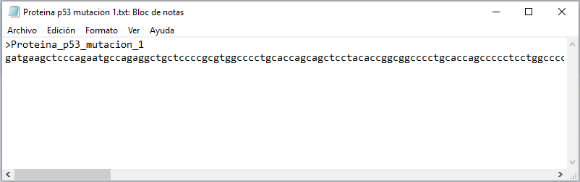
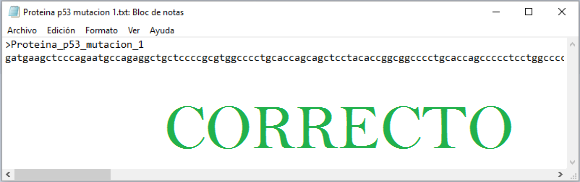
fORMATO CORRECTO DE LA PROTEINA

diff --git a/src/clustalUDC/tutorial/TutorialPrincipal.java b/src/clustalUDC/tutorial/TutorialPrincipal.java
@@ -128,6 +128,15 @@ public class TutorialPrincipal extends javax.swing.JFrame {
         scrollDescription11 = new javax.swing.JScrollPane();
         descriptionTutorial11 = new javax.swing.JTextArea();
         imagenTutorial11 = new javax.swing.JLabel();
+        panelTutorial12 = new javax.swing.JPanel();
+        siguiente11 = new javax.swing.JButton();
+        atras11 = new javax.swing.JButton();
+        skipTutorial13 = new javax.swing.JButton();
+        tituloTutorial12 = new javax.swing.JLabel();
+        scrollDescription12 = new javax.swing.JScrollPane();
+        descriptionTutorial12 = new javax.swing.JTextArea();
+        imagenTutorial12 = new javax.swing.JLabel();
+        imagenTutorialAux = new javax.swing.JLabel();
 
         setDefaultCloseOperation(javax.swing.WindowConstants.EXIT_ON_CLOSE);
         setResizable(false);
@@ -880,6 +889,69 @@ public class TutorialPrincipal extends javax.swing.JFrame {
                 .addContainerGap())
         );
 
+        siguiente11.setText("Siguiente");
+
+        atras11.setText("Atras");
+
+        skipTutorial13.setText("Saltar Tutorial");
+
+        tituloTutorial12.setFont(new java.awt.Font("Tahoma", 1, 24)); // NOI18N
+        tituloTutorial12.setText("Formato Correcto de la proteina");
+
+        descriptionTutorial12.setBackground(new java.awt.Color(240, 240, 240));
+        descriptionTutorial12.setColumns(20);
+        descriptionTutorial12.setRows(5);
+        descriptionTutorial12.setText("Para visualizar correctamente el analisis y poder usar el software\ncorrectamente debe ingresar la poteina en secuencia de bases\nnitrogenadas y NO en secuencia de aminoacidos.\nComo se muestra a continuación.");
+        descriptionTutorial12.setBorder(new javax.swing.border.LineBorder(new java.awt.Color(240, 240, 240), 0, true));
+        descriptionTutorial12.setPreferredSize(new java.awt.Dimension(190, 94));
+        scrollDescription12.setViewportView(descriptionTutorial12);
+
+        imagenTutorial12.setIcon(new javax.swing.ImageIcon(getClass().getResource("/clustalUDC/src/Ejemplo-Proteina.png"))); // NOI18N
+
+        imagenTutorialAux.setIcon(new javax.swing.ImageIcon(getClass().getResource("/clustalUDC/src/Ejemplo-Proteina2.png"))); // NOI18N
+
+        javax.swing.GroupLayout panelTutorial12Layout = new javax.swing.GroupLayout(panelTutorial12);
+        panelTutorial12.setLayout(panelTutorial12Layout);
+        panelTutorial12Layout.setHorizontalGroup(
+            panelTutorial12Layout.createParallelGroup(javax.swing.GroupLayout.Alignment.LEADING)
+            .addGroup(panelTutorial12Layout.createSequentialGroup()
+                .addContainerGap()
+                .addGroup(panelTutorial12Layout.createParallelGroup(javax.swing.GroupLayout.Alignment.LEADING)
+                    .addGroup(javax.swing.GroupLayout.Alignment.TRAILING, panelTutorial12Layout.createSequentialGroup()
+                        .addComponent(skipTutorial13)
+                        .addPreferredGap(javax.swing.LayoutStyle.ComponentPlacement.RELATED, javax.swing.GroupLayout.DEFAULT_SIZE, Short.MAX_VALUE)
+                        .addComponent(atras11)
+                        .addPreferredGap(javax.swing.LayoutStyle.ComponentPlacement.UNRELATED)
+                        .addComponent(siguiente11))
+                    .addGroup(panelTutorial12Layout.createSequentialGroup()
+                        .addGroup(panelTutorial12Layout.createParallelGroup(javax.swing.GroupLayout.Alignment.LEADING)
+                            .addGroup(panelTutorial12Layout.createParallelGroup(javax.swing.GroupLayout.Alignment.TRAILING, false)
+                                .addComponent(scrollDescription12, javax.swing.GroupLayout.Alignment.LEADING)
+                                .addComponent(tituloTutorial12, javax.swing.GroupLayout.Alignment.LEADING)
+                                .addComponent(imagenTutorial12, javax.swing.GroupLayout.Alignment.LEADING, javax.swing.GroupLayout.DEFAULT_SIZE, javax.swing.GroupLayout.DEFAULT_SIZE, Short.MAX_VALUE))
+                            .addComponent(imagenTutorialAux))
+                        .addGap(0, 0, Short.MAX_VALUE)))
+                .addContainerGap())
+        );
+        panelTutorial12Layout.setVerticalGroup(
+            panelTutorial12Layout.createParallelGroup(javax.swing.GroupLayout.Alignment.LEADING)
+            .addGroup(javax.swing.GroupLayout.Alignment.TRAILING, panelTutorial12Layout.createSequentialGroup()
+                .addContainerGap()
+                .addComponent(tituloTutorial12)
+                .addPreferredGap(javax.swing.LayoutStyle.ComponentPlacement.UNRELATED)
+                .addComponent(scrollDescription12, javax.swing.GroupLayout.PREFERRED_SIZE, 101, javax.swing.GroupLayout.PREFERRED_SIZE)
+                .addPreferredGap(javax.swing.LayoutStyle.ComponentPlacement.UNRELATED)
+                .addComponent(imagenTutorial12, javax.swing.GroupLayout.PREFERRED_SIZE, 139, javax.swing.GroupLayout.PREFERRED_SIZE)
+                .addPreferredGap(javax.swing.LayoutStyle.ComponentPlacement.RELATED)
+                .addComponent(imagenTutorialAux)
+                .addPreferredGap(javax.swing.LayoutStyle.ComponentPlacement.RELATED, 136, Short.MAX_VALUE)
+                .addGroup(panelTutorial12Layout.createParallelGroup(javax.swing.GroupLayout.Alignment.BASELINE)
+                    .addComponent(siguiente11)
+                    .addComponent(atras11)
+                    .addComponent(skipTutorial13))
+                .addContainerGap())
+        );
+
         javax.swing.GroupLayout layout = new javax.swing.GroupLayout(getContentPane());
         getContentPane().setLayout(layout);
         layout.setHorizontalGroup(
@@ -937,6 +1009,11 @@ public class TutorialPrincipal extends javax.swing.JFrame {
                     .addContainerGap()
                     .addComponent(panelTutorial11, javax.swing.GroupLayout.DEFAULT_SIZE, javax.swing.GroupLayout.DEFAULT_SIZE, Short.MAX_VALUE)
                     .addContainerGap()))
+            .addGroup(layout.createParallelGroup(javax.swing.GroupLayout.Alignment.LEADING)
+                .addGroup(layout.createSequentialGroup()
+                    .addContainerGap()
+                    .addComponent(panelTutorial12, javax.swing.GroupLayout.DEFAULT_SIZE, javax.swing.GroupLayout.DEFAULT_SIZE, Short.MAX_VALUE)
+                    .addContainerGap()))
         );
         layout.setVerticalGroup(
             layout.createParallelGroup(javax.swing.GroupLayout.Alignment.LEADING)
@@ -993,6 +1070,11 @@ public class TutorialPrincipal extends javax.swing.JFrame {
                     .addContainerGap()
                     .addComponent(panelTutorial11, javax.swing.GroupLayout.DEFAULT_SIZE, javax.swing.GroupLayout.DEFAULT_SIZE, Short.MAX_VALUE)
                     .addContainerGap()))
+            .addGroup(layout.createParallelGroup(javax.swing.GroupLayout.Alignment.LEADING)
+                .addGroup(layout.createSequentialGroup()
+                    .addContainerGap()
+                    .addComponent(panelTutorial12, javax.swing.GroupLayout.DEFAULT_SIZE, javax.swing.GroupLayout.DEFAULT_SIZE, Short.MAX_VALUE)
+                    .addContainerGap()))
         );
 
         pack();
@@ -1047,6 +1129,7 @@ public class TutorialPrincipal extends javax.swing.JFrame {
     private javax.swing.JButton atras;
     private javax.swing.JButton atras1;
     private javax.swing.JButton atras10;
+    private javax.swing.JButton atras11;
     private javax.swing.JButton atras2;
     private javax.swing.JButton atras3;
     private javax.swing.JButton atras4;
@@ -1060,6 +1143,7 @@ public class TutorialPrincipal extends javax.swing.JFrame {
     private javax.swing.JTextArea descriptionTutorial1;
     private javax.swing.JTextArea descriptionTutorial10;
     private javax.swing.JTextArea descriptionTutorial11;
+    private javax.swing.JTextArea descriptionTutorial12;
     private javax.swing.JTextArea descriptionTutorial2;
     private javax.swing.JTextArea descriptionTutorial3;
     private javax.swing.JTextArea descriptionTutorial4;
@@ -1071,6 +1155,7 @@ public class TutorialPrincipal extends javax.swing.JFrame {
     private javax.swing.JLabel imagenTutorial1;
     private javax.swing.JLabel imagenTutorial10;
     private javax.swing.JLabel imagenTutorial11;
+    private javax.swing.JLabel imagenTutorial12;
     private javax.swing.JLabel imagenTutorial2;
     private javax.swing.JLabel imagenTutorial3;
     private javax.swing.JLabel imagenTutorial4;
@@ -1079,6 +1164,7 @@ public class TutorialPrincipal extends javax.swing.JFrame {
     private javax.swing.JLabel imagenTutorial7;
     private javax.swing.JLabel imagenTutorial8;
     private javax.swing.JLabel imagenTutorial9;
+    private javax.swing.JLabel imagenTutorialAux;
     private javax.swing.JLabel jLabel1;
     private javax.swing.JLabel jLabel2;
     private javax.swing.JLabel jLabel3;
@@ -1088,6 +1174,7 @@ public class TutorialPrincipal extends javax.swing.JFrame {
     private javax.swing.JPanel panelTutorial1;
     private javax.swing.JPanel panelTutorial10;
     private javax.swing.JPanel panelTutorial11;
+    private javax.swing.JPanel panelTutorial12;
     private javax.swing.JPanel panelTutorial2;
     private javax.swing.JPanel panelTutorial3;
     private javax.swing.JPanel panelTutorial4;
@@ -1100,6 +1187,7 @@ public class TutorialPrincipal extends javax.swing.JFrame {
     private javax.swing.JScrollPane scrollDescription1;
     private javax.swing.JScrollPane scrollDescription10;
     private javax.swing.JScrollPane scrollDescription11;
+    private javax.swing.JScrollPane scrollDescription12;
     private javax.swing.JScrollPane scrollDescription2;
     private javax.swing.JScrollPane scrollDescription3;
     private javax.swing.JScrollPane scrollDescription4;
@@ -1111,6 +1199,7 @@ public class TutorialPrincipal extends javax.swing.JFrame {
     private javax.swing.JButton siguiente;
     private javax.swing.JButton siguiente1;
     private javax.swing.JButton siguiente10;
+    private javax.swing.JButton siguiente11;
     private javax.swing.JButton siguiente2;
     private javax.swing.JButton siguiente3;
     private javax.swing.JButton siguiente4;
@@ -1123,6 +1212,7 @@ public class TutorialPrincipal extends javax.swing.JFrame {
     private javax.swing.JButton skipTutorial10;
     private javax.swing.JButton skipTutorial11;
     private javax.swing.JButton skipTutorial12;
+    private javax.swing.JButton skipTutorial13;
     private javax.swing.JButton skipTutorial2;
     private javax.swing.JButton skipTutorial3;
     private javax.swing.JButton skipTutorial4;
@@ -1135,6 +1225,7 @@ public class TutorialPrincipal extends javax.swing.JFrame {
     private javax.swing.JLabel tituloTutorial1;
     private javax.swing.JLabel tituloTutorial10;
     private javax.swing.JLabel tituloTutorial11;
+    private javax.swing.JLabel tituloTutorial12;
     private javax.swing.JLabel tituloTutorial2;
     private javax.swing.JLabel tituloTutorial3;
     private javax.swing.JLabel tituloTutorial4;
